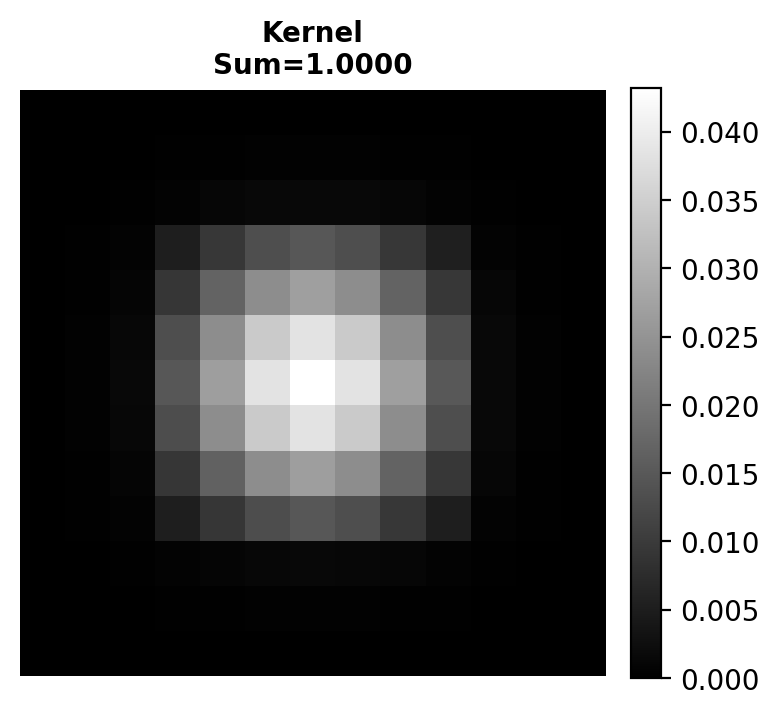
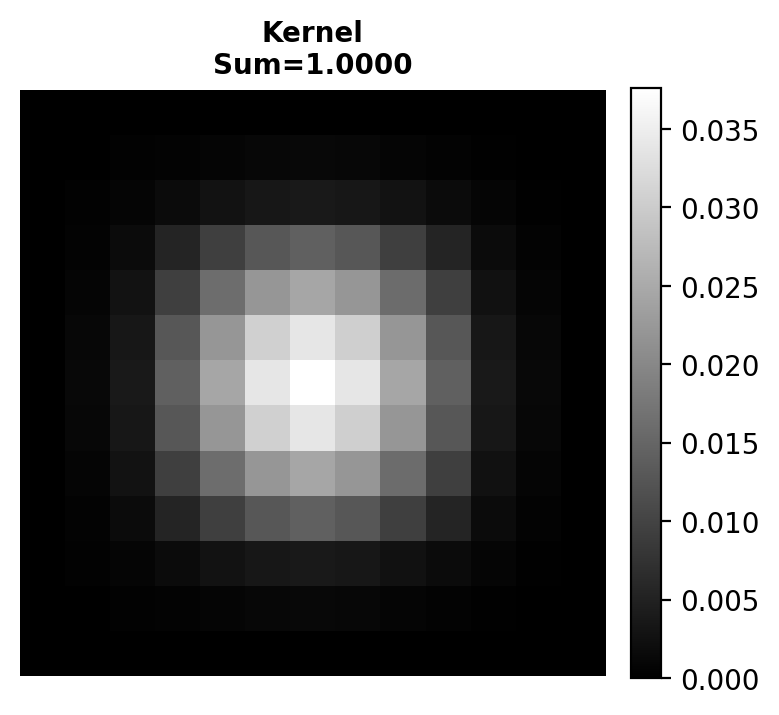
使用高斯初始训练代码，2次

diff --git a/kernel_from_lr_gan/single_kernel/train.py b/kernel_from_lr_gan/single_kernel/train.py
@@ -130,14 +130,14 @@ def main():
     patch_files = load_patches_from_folder(patch_dir)
     
     # 训练配置
-    iters = 3000
+    iters = 10000
     hr_patch_size = 256          # 高分辨率patch尺寸
     lr_crop_size = 32            # 从HR中裁剪的低分辨率尺寸
     batch_size = 16
-    lr_rate = 2e-4
-    reg_weight = 0.005            # Loss_Reg 权重
+    lr_rate = 4e-4
+    reg_weight = 0.002            # Loss_Reg 权重
     grad_clip_norm = 20.0         # 全局梯度裁剪阈值
-    outdir = r'output\kernelgan_out_denoised_single_kernel_stable'
+    outdir = r'output\kernelgan_out_denoised_single_kernel_stable_10000iters'
     log_every = 100              # 普通训练日志间隔
     kernel_log_every = 100       # 核详细统计输出间隔
     save_intermediate = True     # 是否保存中间核

diff --git a/kernel_from_lr_gan/single_kernel/visualize_all_kernels.py b/kernel_from_lr_gan/single_kernel/visualize_all_kernels.py
@@ -58,7 +58,7 @@ def visualize_kernel_file(kernel_path: str, save_path: str) -> None:
 
 
 def main():
-    kernel_dir = os.path.join('output', 'kernelgan_out_denoised_single_kernel_stable')
+    kernel_dir = os.path.join('output', 'kernelgan_out_denoised_single_kernel_stable_10000iters')
     vis_dir = os.path.join(kernel_dir, 'vis_all')
     os.makedirs(vis_dir, exist_ok=True)
 
